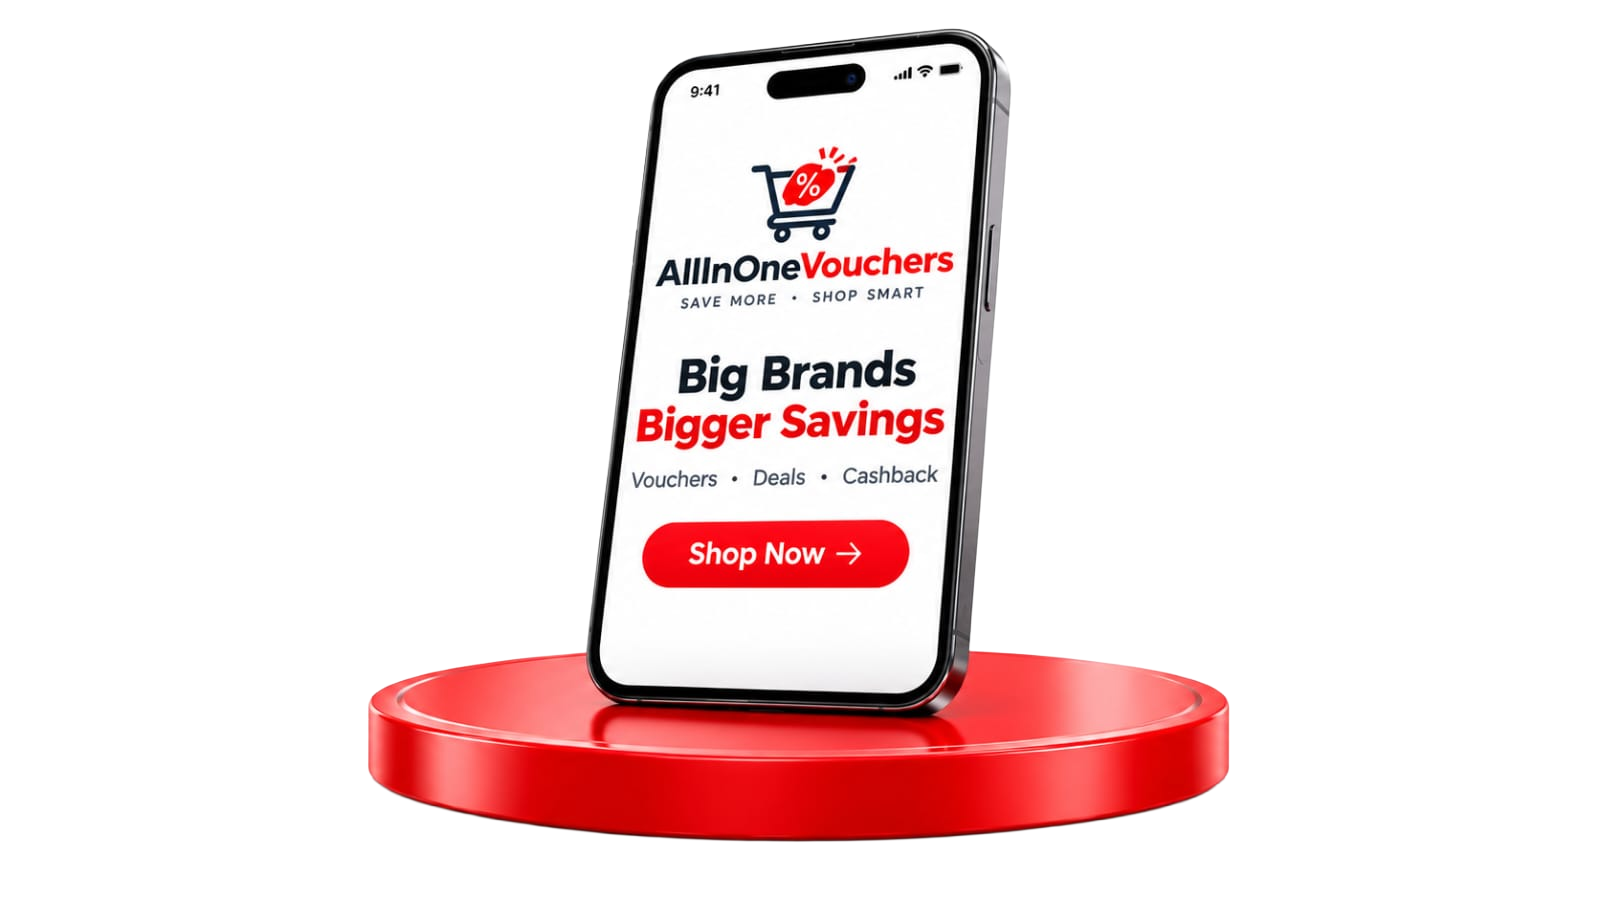
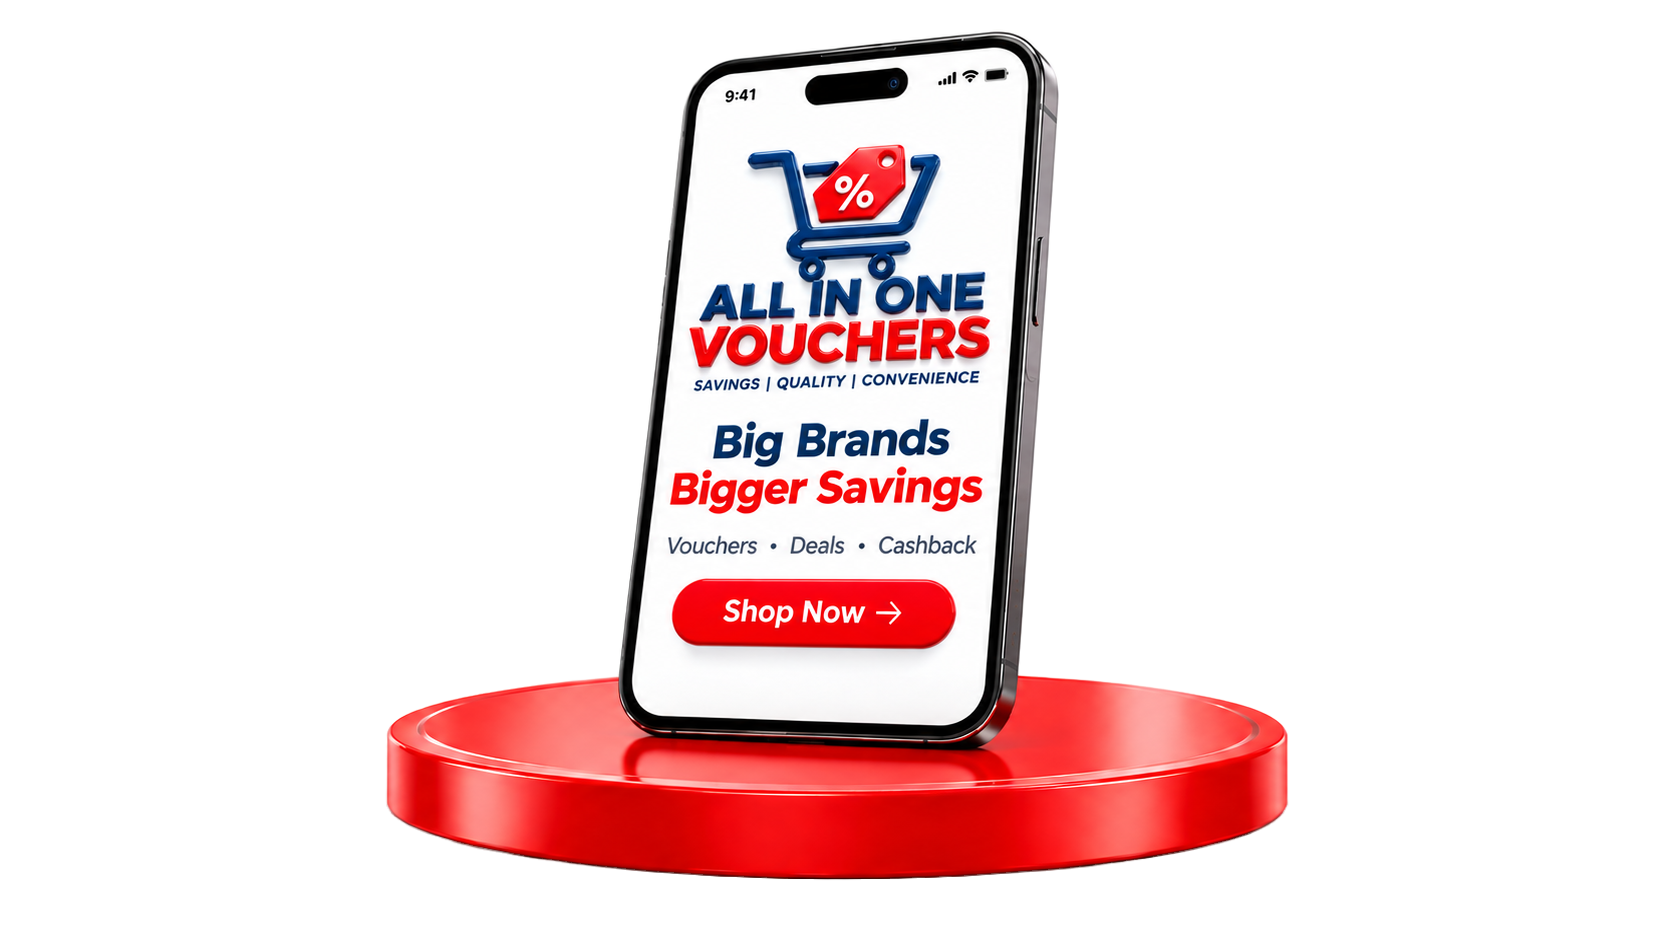
added final bg

Changed region(s): [[0.2188, 0.0311, 0.7812, 0.9333], [0.625, 0.9022, 0.6875, 0.9333], [0.4375, 0.84, 0.5, 0.8711]]

diff --git a/src/app/page.tsx b/src/app/page.tsx
@@ -360,8 +360,8 @@ export default function Home() {
           <div className="lg:col-span-7 space-y-5 sm:space-y-6 text-left">
             
             {/* BRAND LOGO + PILL BADGE COMBO */}
-            <div className="space-y-3">
-              <div className="relative h-8 sm:h-9 w-44 sm:w-52 drop-shadow-sm">
+            <div className="space-y-4">
+              <div className="relative h-12 sm:h-14 lg:h-16 w-60 sm:w-72 lg:w-80 drop-shadow-md">
                 <Image
                   src="/logo1.png"
                   alt="AllInOneVouchers Logo"

diff --git a/src/components/Footer.tsx b/src/components/Footer.tsx
@@ -78,7 +78,7 @@ export default function Footer() {
           <div className="lg:col-span-4 space-y-4">
             <Link href="/" className="inline-block relative h-10 w-48">
               <Image 
-                src="/logo1.png" 
+                src="/logo2.png"
                 alt="AllInOneVouchers Logo" 
                 width={190} 
                 height={42} 
